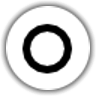
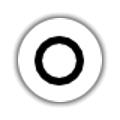
Updated heuristics and graphics.

diff --git a/heuristics.py b/heuristics.py
@@ -21,9 +21,7 @@ def line_length(board, active_player_symbol):
     if score == sys.maxsize or score == -sys.maxsize:
         return score
 
-    length = constants.required_line_length + 1
-    if length > board.width or length > board.height:
-        length = constants.required_line_length
+    length = constants.required_line_length
     for line in board.iter_lines(length):
         my_symbols = line.count(active_player_symbol)
         other_symbols = sum(1 for symbol in line if symbol is not None and symbol != active_player_symbol)
@@ -85,6 +83,6 @@ def line_length_turn_number(board, active_player_symbol):
     score = line_length(board, active_player_symbol)
 
     occupied_tiles = board.get_occupied_tiles()  # the number of occupied tiles = how many turns have been made
-    score -= len(occupied_tiles) * 10  # we want to end games fast, so decrease score for every turn
+    score -= len(occupied_tiles)  # we want to end games fast, so decrease score for every turn
 
     return score

diff --git a/constants.py b/constants.py
@@ -8,9 +8,9 @@ from ai_player_neural import AIPlayerNeural
 
 from neural_networks import FFNHyperparams
 
-default_hyperparams = FFNHyperparams(num_inputs=25, num_outputs=1, hidden_dims=[25, 625, 625, 15625, 625, 625, 625, 25],
-                                     activation_fcn='tanh', learning_rate=0.0001)
-training_epochs = 75
+default_hyperparams = FFNHyperparams(num_inputs=25, num_outputs=1, hidden_dims=[25, 625, 15625, 625, 25],
+                                     activation_fcn='tanh', learning_rate=0.001)
+training_epochs = 150
 
 menu_play_game = 0
 menu_exit = 1
